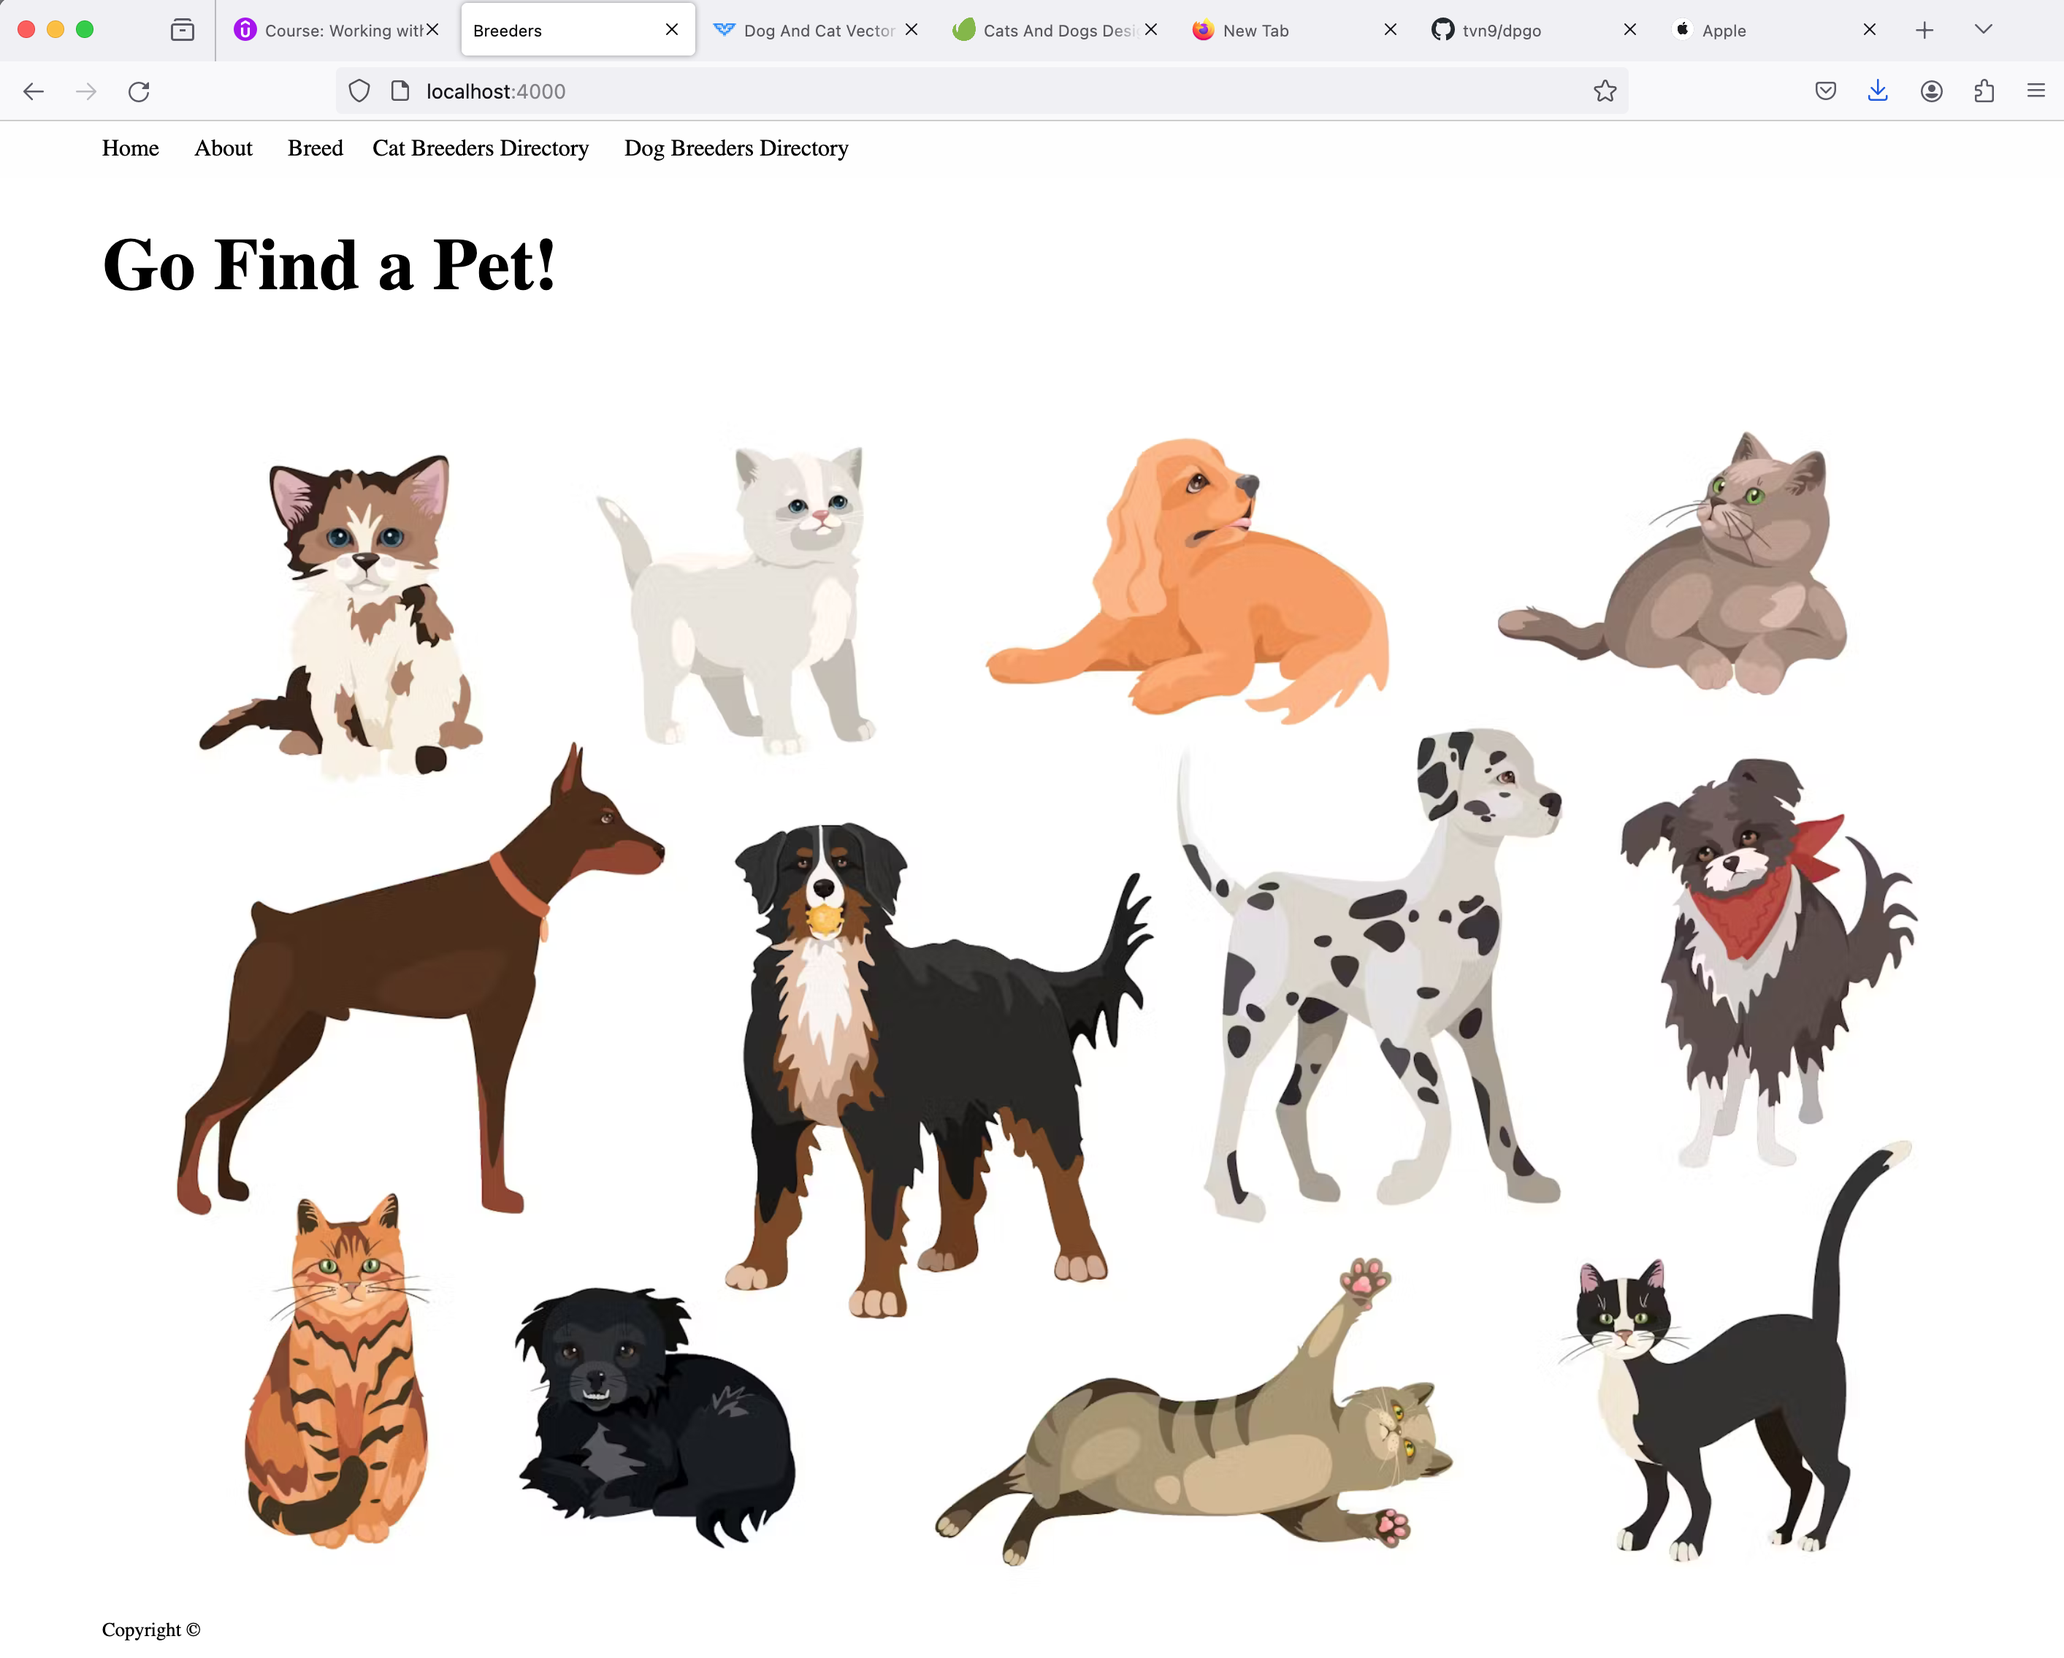
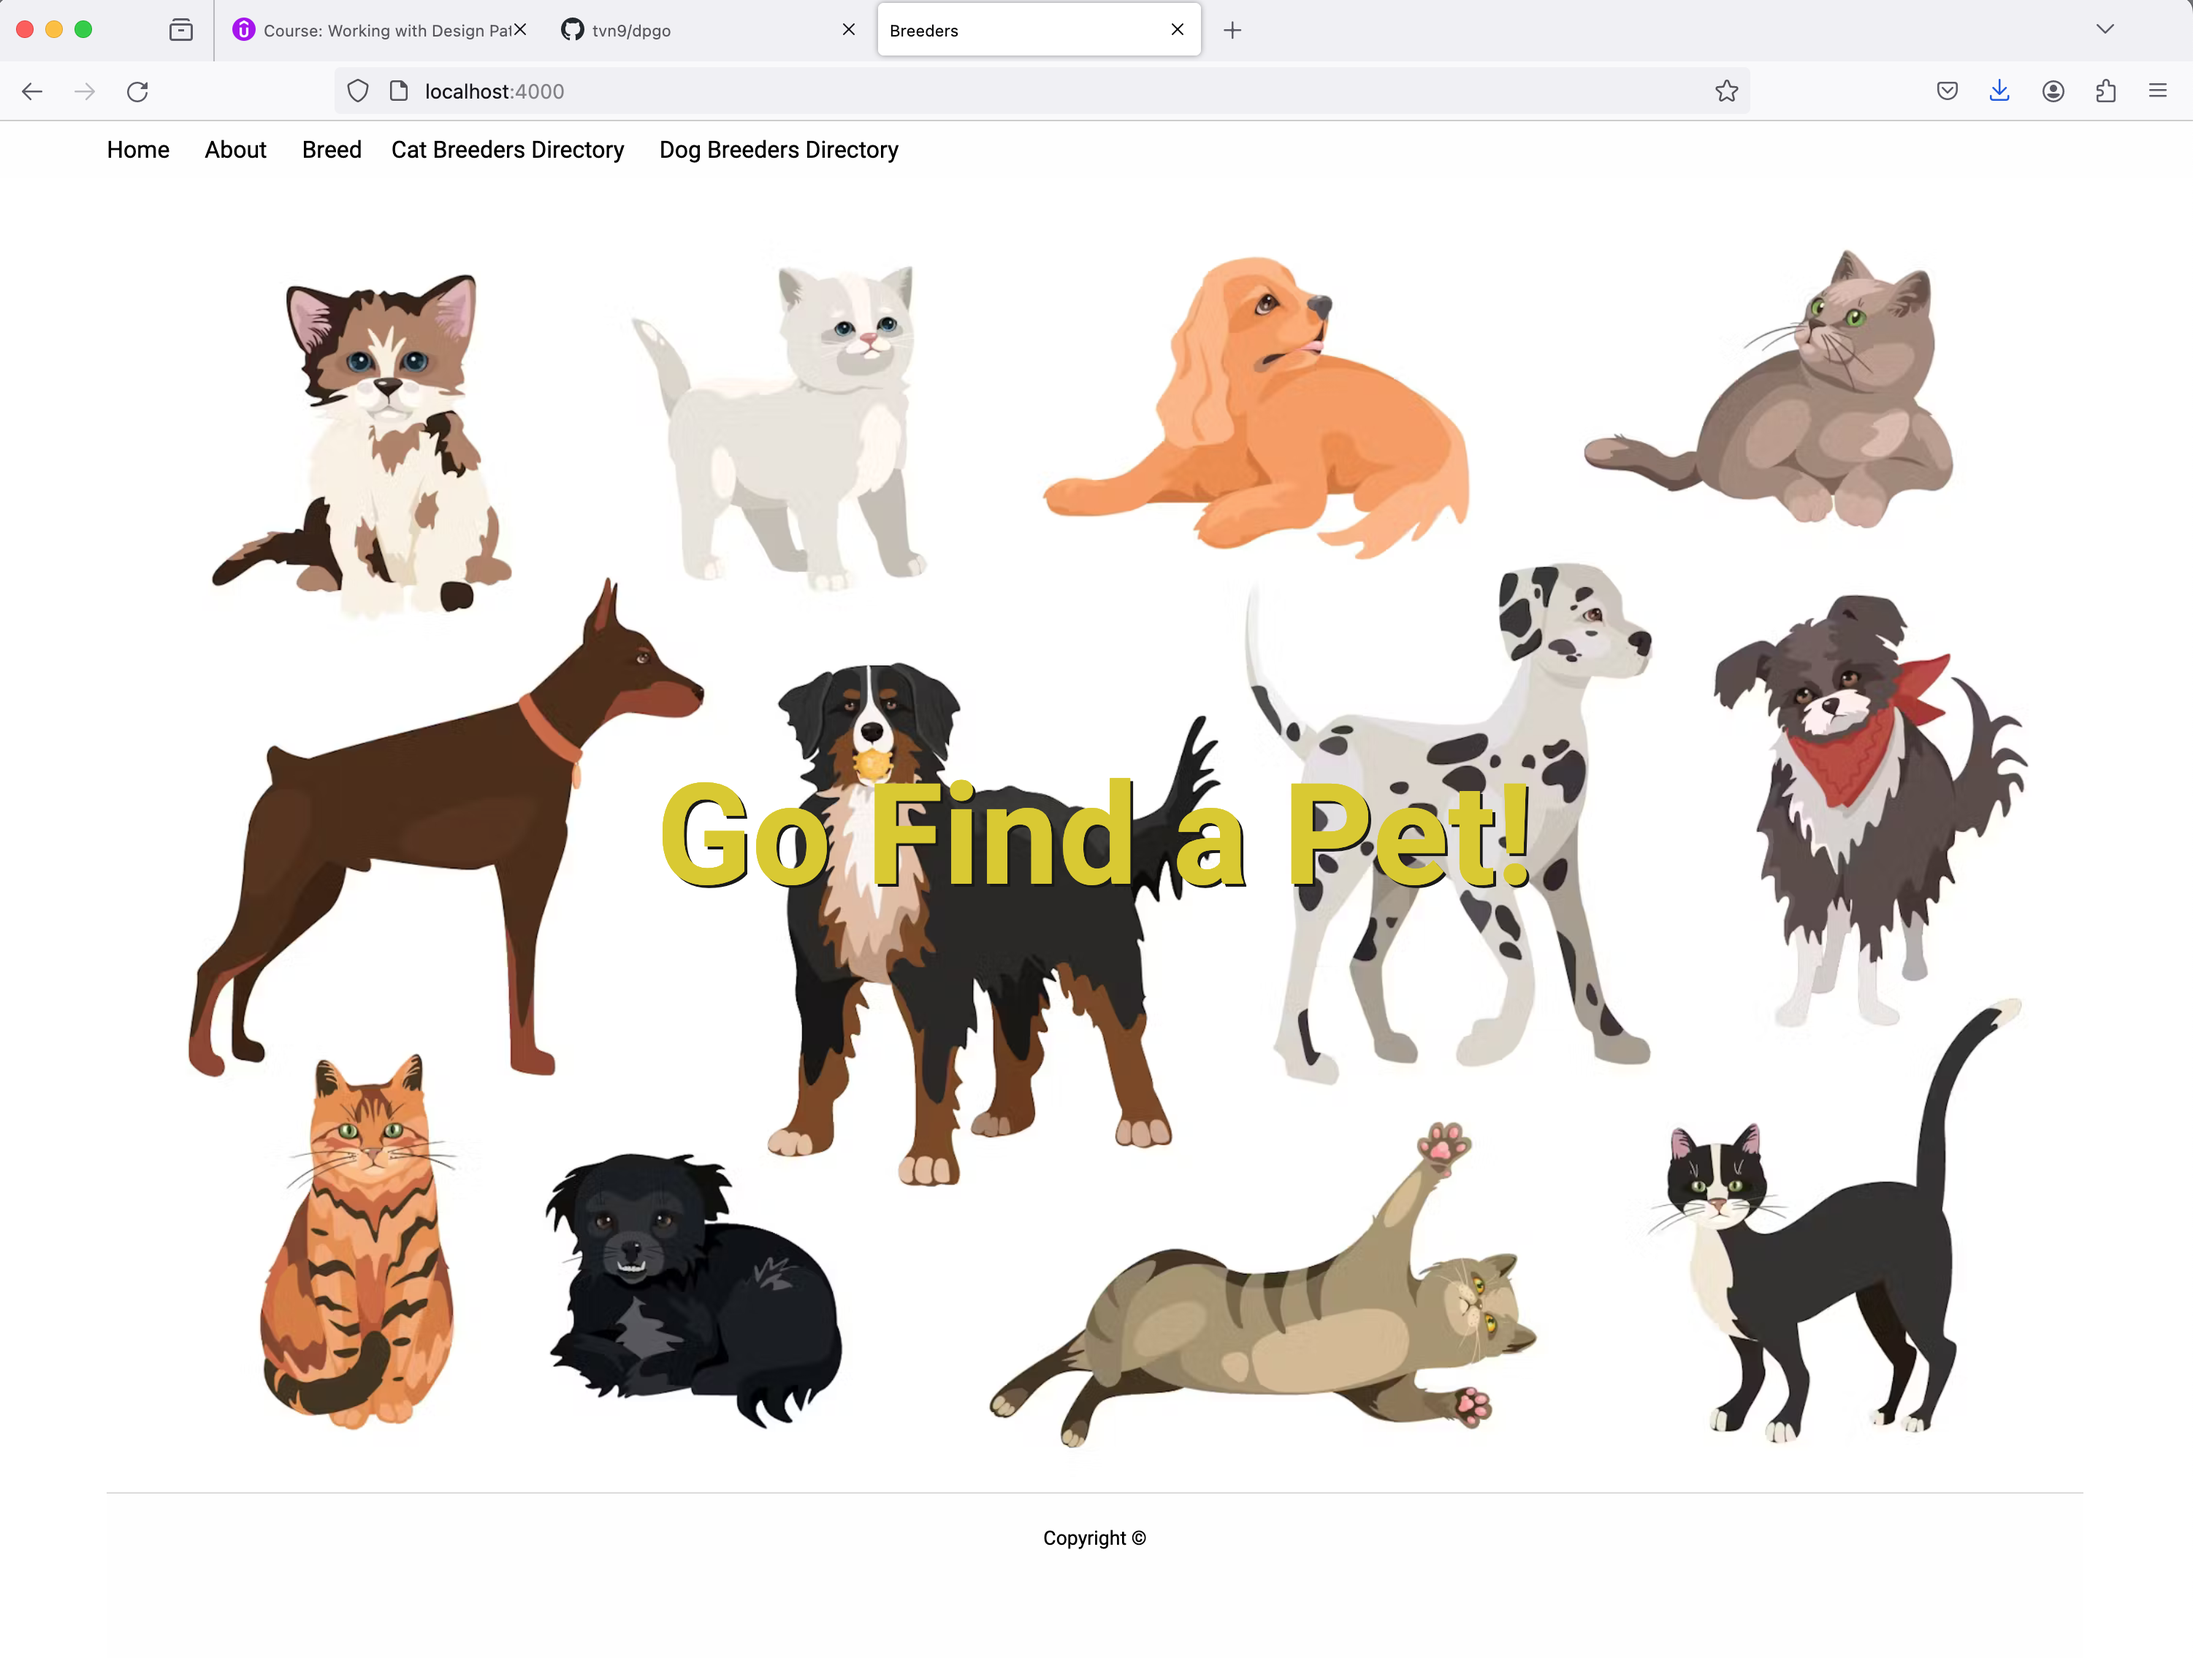
progress code

diff --git a/breeders/local/css/index-css.css b/breeders/local/css/index-css.css
@@ -1,4 +1,6 @@
-.hero {}
+.hero {
+   width: 100%;
+}
 
 .hero-image {
    display: flex;
@@ -7,7 +9,7 @@
    background: url("/static/images/catdog.avif") no-repeat center;
    background-size: contain;
    width: auto;
-   height: 80vh;
+   height: 70vh;
    text-align: center;
 }
 
@@ -19,6 +21,11 @@
 }
 
 .footer-content {
-   width: 100%;
+   position: absolute;
+   bottom: fixed;
+   width: 90%;
+   height: 3rem;
+   margin: 0 auto;
    text-align: center;
+   /* background: #b1b1b1; */
 }

diff --git a/breeders/local/css/base.css b/breeders/local/css/base.css
@@ -56,10 +56,17 @@ body {
    margin: 0 auto;
 }
 
+footer {
+   width: 100%;
+}
 
 .base-footer {
    display: flex;
    flex-direction: row;
    width: 90%;
    margin: 0 auto;
+   padding: 20px 0;
+   height: 5rem;
+   background: #fefefe;
+   border-top: 1px solid #dcdbdb;
 }

diff --git a/breeders/templates/footer.html b/breeders/templates/footer.html
@@ -1,7 +1,9 @@
 {{define "footer"}}
-
-<div class="footer-content">
-   <small>Copyright &copy; </small>
-</div>
-
+<footer>
+   <div class="base-footer">
+      <div class="footer-content">
+         <small>Copyright &copy; </small>
+      </div>
+   </div>
+</footer>
 {{end}}

diff --git a/breeders/templates/base.html b/breeders/templates/base.html
@@ -17,11 +17,8 @@
       {{block "content" .}}
       {{end}}
 
-      <div class="base-footer">
-         {{block "footer" .}}
-         {{end}}
-      </div>
-
+      {{block "footer" .}}
+      {{end}}
    </div>
    {{block "js" .}}
    {{end}}

diff --git a/breeders/templates/index.html b/breeders/templates/index.html
@@ -13,4 +13,5 @@
       </div>
    </div>
 </div>
+
 {{end}}

diff --git a/breeders/models/models.go b/breeders/models/models.go
@@ -1,0 +1,79 @@
+package models
+
+import "time"
+
+type DogBreed struct {
+	ID               int    `json:"id"`
+	Breed            string `json:"breed"`
+	WeightLowLbs     int    `json:"weight_low_lbs"`
+	WeightHighLbs    int    `json:"weight_high_lbs"`
+	AverageWeight    int    `json:"average_weight"`
+	AverageLifespan  int    `json:"average_lifespen"`
+	Details          string `json:"details"`
+	AlternateNames   string `json:"AlternateNames"`
+	GeographicOrigin string `json:"geographic_origin"`
+}
+
+type CatBreed struct {
+	ID               int    `json:"id"`
+	Breed            string `json:"breed"`
+	WeightLowLbs     int    `json:"weight_low_lbs"`
+	WeightHighLbs    int    `json:"weight_high_lbs"`
+	AverageWeight    int    `json:"average_weight"`
+	AverageLifespan  int    `json:"average_lifespen"`
+	Details          string `json:"details"`
+	AlternateNames   string `json:"AlternateNames"`
+	GeographicOrigin string `json:"geographic_origin"`
+}
+
+type Dog struct {
+	ID               int       `json:"id"`
+	DocName          string    `json:"dog_name"`
+	BreedID          int       `json:"breed_id"`
+	BreederID        int       `json:"breeder_id"`
+	Color            string    `json:"color"`
+	DateOfBirth      time.Time `json:"date_of_birth"`
+	SpayedOrNeutered int       `json:"spayed_neutered"`
+	Description      string    `json:"description"`
+	Weight           int       `json:"weight"`
+	Breed            DogBreed  `json:"Breed"`
+	Breeder          Breeder   `json:"breeder"`
+}
+
+type Cat struct {
+	ID               int       `json:"id"`
+	CatName          string    `json:"cat_name"`
+	BreedID          int       `json:"breed_id"`
+	BreederID        int       `json:"breederID"`
+	Color            string    `json:"color"`
+	DateOfBirth      time.Time `json:"date_of_birth"`
+	SpayedOrNeutered int       `json:"spayed_neutered"`
+	Description      string    `json:"description"`
+	Weight           int       `json:"weight"`
+	Breed            CatBreed  `json:"Breed"`
+	Breeder          Breeder   `json:"breeder"`
+}
+
+type Breeder struct {
+	ID          int         `json:"id"`
+	BreederName string      `json:"breeder_id"`
+	Address     string      `json:"address"`
+	City        string      `json:"city"`
+	ProvState   string      `json:"prov_state"`
+	Country     string      `json:"country"`
+	Zip         string      `json:"zip"`
+	Phone       string      `json:"phone"`
+	Email       string      `json:"email"`
+	Active      int         `json:"active"`
+	DogBreeds   []*DogBreed `json:"dog_breeds"`
+	CatBreeds   []*CatBreed `json:"cat_breeds"`
+}
+
+type Pet struct {
+	Species     string `json:"species"`
+	Breed       string `json:"breed"`
+	MinWeight   int    `json:"min_weight"`
+	MaxWeight   int    `json:"max_weight"`
+	Description string `json:"description"`
+	LifeSpan    int    `json:"lifespan"`
+}

diff --git a/factory/main.go b/factory/main.go
@@ -15,12 +15,12 @@ func main() {
 	fmt.Printf("Created at: %v\n", tundra.CreatedAt)
 	fmt.Printf("Updated at: %v\n", tundra.UpdatedAt)
 
-	fmt.Println("After 4 seconds, update the product name")
-	time.Sleep(4 * time.Second)
+	fmt.Println("After 5 seconds, update the product name")
+	time.Sleep(5 * time.Second)
 
 	// update product name
 	func(t *products.Product) {
-		t.ProductName = "Totota Tundra"
+		t.ProductName = "Toyota Tundra"
 		t.UpdatedAt = time.Now()
 	}(tundra)
 

diff --git a/breeders/pets/factory.go b/breeders/pets/factory.go
@@ -1,0 +1,15 @@
+package pets
+
+import "breeders/models"
+
+func NewPet(species string) *models.Pet {
+	pet := models.Pet{
+		Species:     species,
+		Breed:       "",
+		MinWeight:   0,
+		MaxWeight:   0,
+		Description: "no description entered yet",
+		LifeSpan:    0,
+	}
+	return &pet
+}

diff --git a/dpnotes.md b/dpnotes.md
@@ -50,7 +50,7 @@ func main() {
 
    // update product name 
 	func(t *products.Product) {
-		t.ProductName = "Totota Tundra"
+		t.ProductName = "Toyota Tundra"
 		t.UpdatedAt = time.Now()
 	}(tundra)
 
